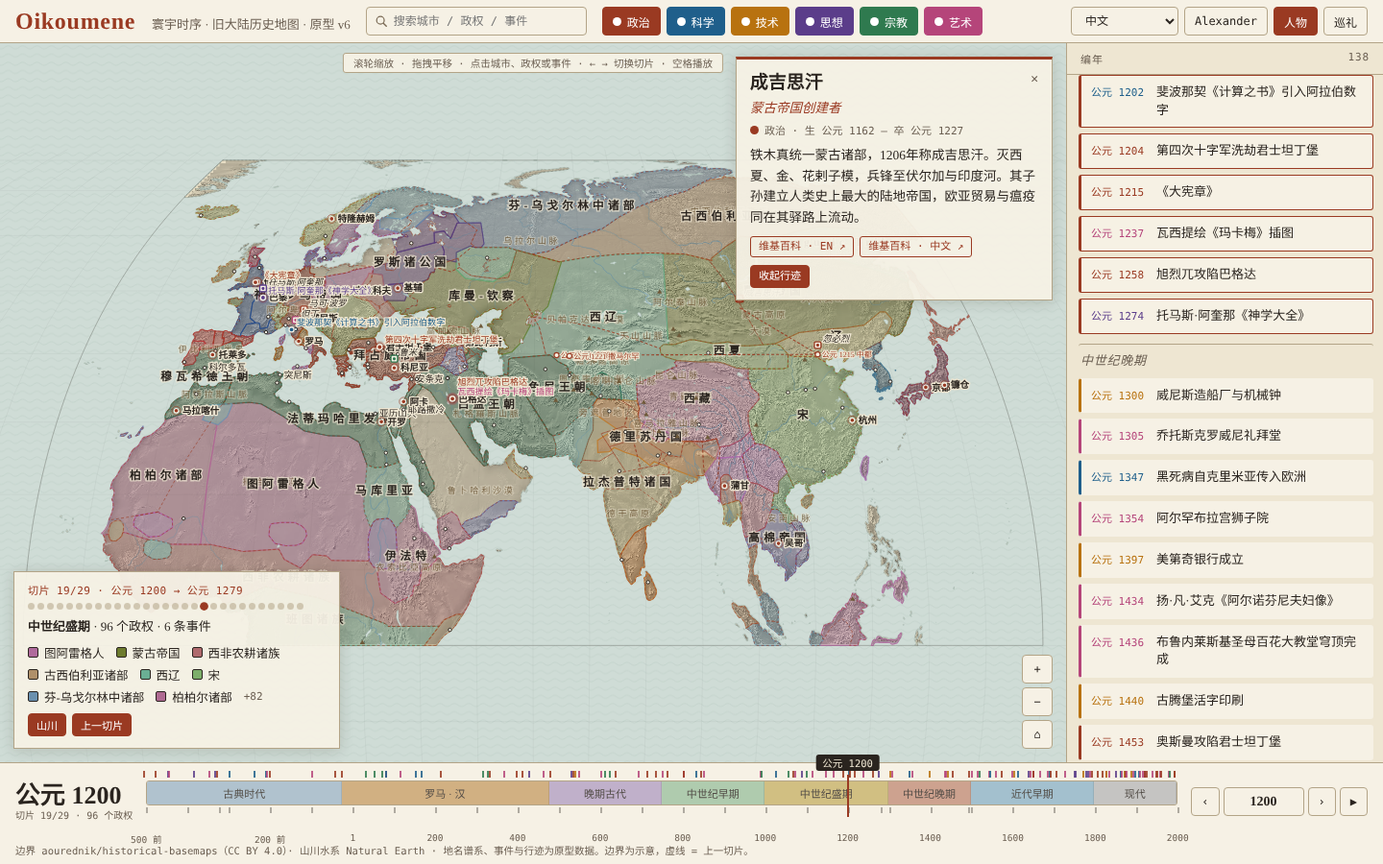
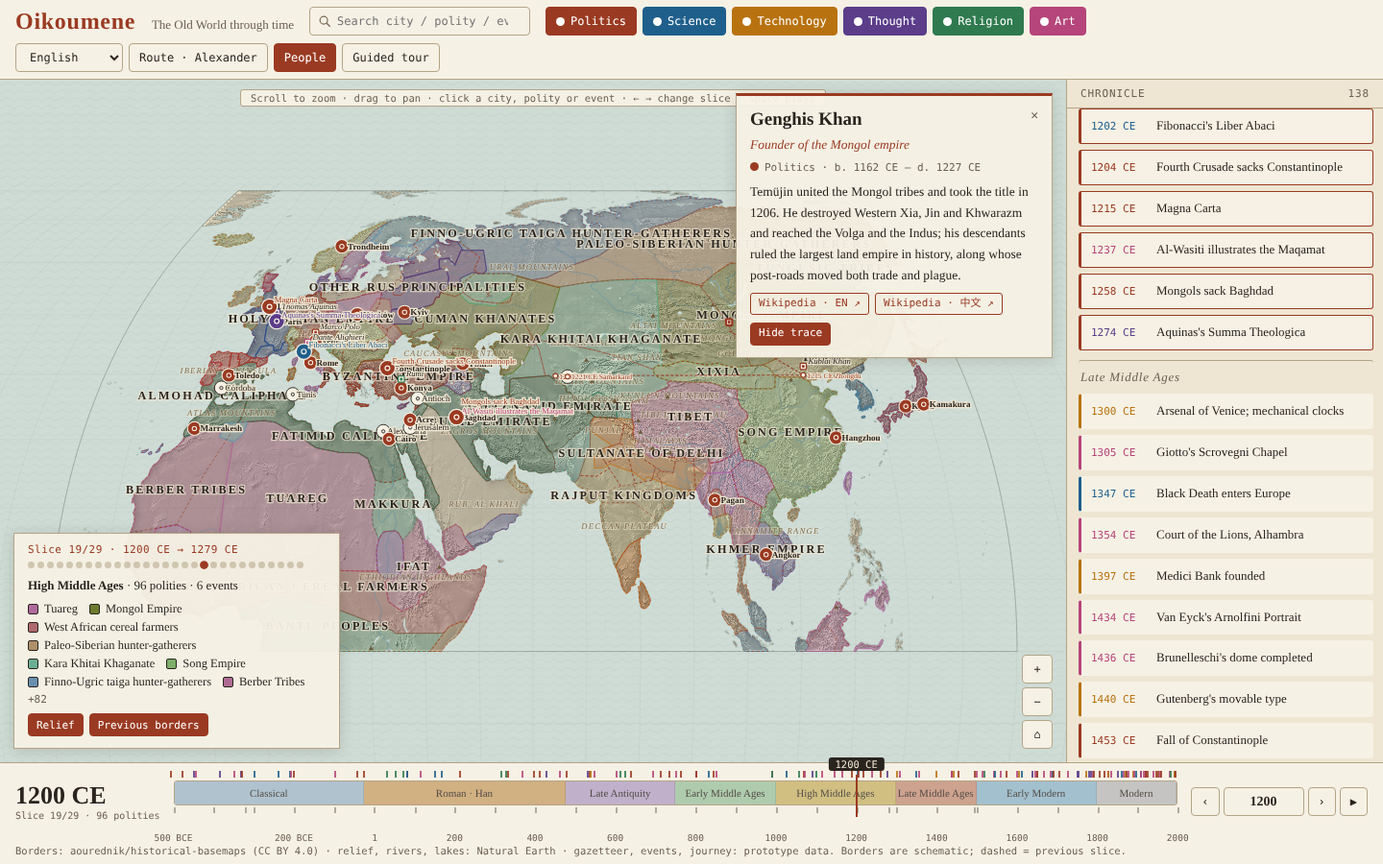
English-first README with FR/DE/IT translations; Italian UI; English screenshot; minor cities hidden at base zoom
Claude-Session: https://claude.ai/code/session_01UzgbBj8TgFjAtKoGFmXa1M

diff --git a/public/index.html b/public/index.html
@@ -79,8 +79,8 @@ svg[data-z="2"] .peak text,svg[data-z="3"] .peak text{display:block}
 .city text{font-family:var(--zh);font-size:calc(9px*var(--inv,1));fill:var(--ink);paint-order:stroke;stroke:var(--paper);stroke-width:2.6;stroke-linejoin:round;cursor:pointer}
 .hit{fill:transparent;stroke:none}
 .city.cap text{font-weight:700}
-.city.minor text{display:none}
-svg[data-z="2"] .city.minor text,svg[data-z="3"] .city.minor text{display:block}
+.city.minor{display:none}
+svg[data-z="2"] .city.minor,svg[data-z="3"] .city.minor{display:block}
 .lbl{font-family:var(--display);font-weight:600;font-size:calc(12px*var(--inv,1));fill:var(--ink);text-anchor:middle;letter-spacing:.18em;text-transform:uppercase;paint-order:stroke;stroke:var(--paper);stroke-width:2.4;stroke-opacity:.7;pointer-events:none}
 .lbl.zh{font-family:var(--zh);text-transform:none;letter-spacing:.35em;font-size:calc(11px*var(--inv,1))}
 .ev{cursor:pointer}
@@ -187,7 +187,7 @@ footer{grid-area:tl;border-top:1px solid var(--rule);background:var(--panel-soli
   <div class="ctl" id="kinds"></div>
   <span class="sp"></span>
   <div class="ctl">
-    <select id="lang" aria-label="language"><option value="en">English</option><option value="zh">中文</option><option value="fr">Français</option><option value="de">Deutsch</option><option value="es">Español</option></select>
+    <select id="lang" aria-label="language"><option value="en">English</option><option value="zh">中文</option><option value="fr">Français</option><option value="de">Deutsch</option><option value="es">Español</option><option value="it">Italiano</option></select>
     <button id="b-jr">Alexander</button><button id="b-people" aria-pressed="true"></button><button id="b-tour"></button><button id="b-side">☰</button>
   </div>
 </header>
@@ -243,23 +243,24 @@ const JOURNEY={zh:'亚历山大东征',en:"Alexander's campaigns",w:'Wars of Ale
 LINEAGE.push([/^(Han|Qin|Tang|Song|Ming|Qing|Jin|Sui|Northern Wei|Toba Wei|Southern Song|China)$/,'#b03a2e'],[/Japan|Shogun|Kamakura|Edo/,'#7a3b5e'],[/Korea|Goryeo|Joseon|Silla|Koguryo|Paekche/,'#3a6e8c'],[/Maurya|Gupta|Delhi|Mughal|Chola|Vijayanagara|India/,'#c0762c']);
 LINEAGE.push([/^(Han|Qin|Tang|Song|Ming|Qing|Jin|Sui|Northern Wei|Toba Wei|Southern Song|China)$/,'#b03a2e'],[/Japan|Shogun|Kamakura|Edo/,'#7a3b5e'],[/Korea|Goryeo|Joseon|Silla|Koguryo|Paekche/,'#3a6e8c'],[/Maurya|Gupta|Delhi|Mughal|Chola|Vijayanagara|India/,'#c0762c']);
 
-const KINDS={pol:{zh:'政治',en:'Politics',fr:'Politique',de:'Politik',es:'Política'},sci:{zh:'科学',en:'Science',fr:'Science',de:'Wissenschaft',es:'Ciencia'},tec:{zh:'技术',en:'Technology',fr:'Technique',de:'Technik',es:'Tecnología'},tho:{zh:'思想',en:'Thought',fr:'Pensée',de:'Denken',es:'Pensamiento'},rel:{zh:'宗教',en:'Religion',fr:'Religion',de:'Religion',es:'Religión'},art:{zh:'艺术',en:'Art',fr:'Art',de:'Kunst',es:'Arte'}};
+const KINDS={pol:{zh:'政治',en:'Politics',fr:'Politique',de:'Politik',es:'Política',it:'Politica'},sci:{zh:'科学',en:'Science',fr:'Science',de:'Wissenschaft',es:'Ciencia',it:'Scienza'},tec:{zh:'技术',en:'Technology',fr:'Technique',de:'Technik',es:'Tecnología',it:'Tecnologia'},tho:{zh:'思想',en:'Thought',fr:'Pensée',de:'Denken',es:'Pensamiento',it:'Pensiero'},rel:{zh:'宗教',en:'Religion',fr:'Religion',de:'Religion',es:'Religión',it:'Religione'},art:{zh:'艺术',en:'Art',fr:'Art',de:'Kunst',es:'Arte',it:'Arte'}};
 const ERAS=[
-  {from:-500,to:-27,c:'#9fb7c9',n:{en:'Classical',zh:'古典时代',fr:'Antiquité classique',de:'Klassische Antike',es:'Época clásica'}},
-  {from:-27,to:476,c:'#c9a06a',n:{en:'Roman · Han',zh:'罗马 · 汉',fr:'Rome · Han',de:'Rom · Han',es:'Roma · Han'}},
-  {from:476,to:750,c:'#b3a0c4',n:{en:'Late Antiquity',zh:'晚期古代',fr:'Antiquité tardive',de:'Spätantike',es:'Antigüedad tardía'}},
-  {from:750,to:1000,c:'#9ec2a0',n:{en:'Early Middle Ages',zh:'中世纪早期',fr:'Haut Moyen Âge',de:'Frühmittelalter',es:'Alta Edad Media'}},
-  {from:1000,to:1300,c:'#c9b36a',n:{en:'High Middle Ages',zh:'中世纪盛期',fr:'Moyen Âge central',de:'Hochmittelalter',es:'Plena Edad Media'}},
-  {from:1300,to:1500,c:'#c48f7a',n:{en:'Late Middle Ages',zh:'中世纪晚期',fr:'Bas Moyen Âge',de:'Spätmittelalter',es:'Baja Edad Media'}},
-  {from:1500,to:1800,c:'#8fb5c9',n:{en:'Early Modern',zh:'近代早期',fr:'Époque moderne',de:'Frühe Neuzeit',es:'Edad Moderna'}},
-  {from:1800,to:2000,c:'#b9b9b9',n:{en:'Modern',zh:'现代',fr:'Époque contemporaine',de:'Moderne',es:'Edad Contemporánea'}}];
+  {from:-500,to:-27,c:'#9fb7c9',n:{en:'Classical',zh:'古典时代',fr:'Antiquité classique',de:'Klassische Antike',es:'Época clásica',it:'Età classica'}},
+  {from:-27,to:476,c:'#c9a06a',n:{en:'Roman · Han',zh:'罗马 · 汉',fr:'Rome · Han',de:'Rom · Han',es:'Roma · Han',it:'Roma · Han'}},
+  {from:476,to:750,c:'#b3a0c4',n:{en:'Late Antiquity',zh:'晚期古代',fr:'Antiquité tardive',de:'Spätantike',es:'Antigüedad tardía',it:'Tarda antichità'}},
+  {from:750,to:1000,c:'#9ec2a0',n:{en:'Early Middle Ages',zh:'中世纪早期',fr:'Haut Moyen Âge',de:'Frühmittelalter',es:'Alta Edad Media',it:'Alto Medioevo'}},
+  {from:1000,to:1300,c:'#c9b36a',n:{en:'High Middle Ages',zh:'中世纪盛期',fr:'Moyen Âge central',de:'Hochmittelalter',es:'Plena Edad Media',it:'Pieno Medioevo'}},
+  {from:1300,to:1500,c:'#c48f7a',n:{en:'Late Middle Ages',zh:'中世纪晚期',fr:'Bas Moyen Âge',de:'Spätmittelalter',es:'Baja Edad Media',it:'Basso Medioevo'}},
+  {from:1500,to:1800,c:'#8fb5c9',n:{en:'Early Modern',zh:'近代早期',fr:'Époque moderne',de:'Frühe Neuzeit',es:'Edad Moderna',it:'Età moderna'}},
+  {from:1800,to:2000,c:'#b9b9b9',n:{en:'Modern',zh:'现代',fr:'Époque contemporaine',de:'Moderne',es:'Edad Contemporánea',it:'Età contemporanea'}}];
 const T={
- en:{sub:'The Old World through time · prototype v6',legend:'Polities',slice:'Slice',pol:'polities',unnamed:'unnamed peoples / no polity',cap:'Capital',names:'Names through time',note:'Borders: aourednik/historical-basemaps (CC BY 4.0) · relief, rivers, lakes: Natural Earth · gazetteer, events, journey: prototype data. Borders are schematic; dashed = previous slice.',chron:'Chronicle',tour:'Guided tour',jr:'Route · Alexander',tourT:'Fly through every period and land on its defining event',jrT:"Draw Alexander's campaign route; click a stop to jump to that year",ghostT:'Show the previous slice\'s borders as dashed lines',wiki:'Wikipedia',relief:'Relief',ghost:'Previous borders',search:'Search city / polity / event',hint:'Scroll to zoom · drag to pan · click a city, polity or event · ← → change slice · Space plays',bce:'BCE',ce:'CE',year:'Year',events:'events',local:'local',people:'People',born:'b.',died:'d.',trace:'Trace life',untrace:'Hide trace',read:'Read'},
- zh:{sub:'寰宇时序 · 旧大陆历史地图 · 原型 v6',legend:'政权',slice:'切片',pol:'个政权',unnamed:'未命名部族 / 无主地',cap:'都城',names:'历代名称',note:'边界 aourednik/historical-basemaps（CC BY 4.0）· 山川水系 Natural Earth · 地名谱系、事件与行迹为原型数据。边界为示意，虚线 = 上一切片。',chron:'编年',tour:'巡礼',jr:'行迹 · 亚历山大',tourT:'自动飞过每个时期，停在它的代表性事件上',jrT:'画出亚历山大东征路线，点站点跳到那一年',ghostT:'把上一切片的边界显示为虚线',wiki:'维基百科',relief:'山川',ghost:'上期边界',search:'搜索城市 / 政权 / 事件',hint:'滚轮缩放 · 拖拽平移 · 点击城市、政权或事件 · ← → 切换切片 · 空格播放',bce:'前',ce:'公元',year:'年',events:'条事件',local:'当地',people:'人物',born:'生',died:'卒',trace:'生平行迹',untrace:'收起行迹',read:'阅读'},
- fr:{sub:'Le Vieux Monde à travers le temps · prototype v6',legend:'Entités politiques',slice:'Coupe',pol:'entités',unnamed:'peuples sans État',cap:'Capitale',names:'Noms au fil du temps',note:'Frontières : aourednik/historical-basemaps (CC BY 4.0) · relief, fleuves, lacs : Natural Earth · toponymes, événements, itinéraire : données prototype. Frontières schématiques ; pointillé = coupe précédente.',chron:'Chronique',tour:'Visite guidée',jr:'Itinéraire · Alexandre',tourT:'Survole chaque période et se pose sur son événement marquant',jrT:"Trace la campagne d'Alexandre ; cliquer une étape pour aller à cette année",ghostT:'Affiche les frontières de la coupe précédente en pointillé',wiki:'Wikipédia',relief:'Relief',ghost:'Frontières précédentes',search:'Ville / État / événement',hint:'Molette : zoom · glisser : déplacer · cliquer une ville, un État ou un événement · ← → coupe suivante · Espace : lecture',bce:'av. J.-C.',ce:'apr. J.-C.',year:'Année',events:'événements',local:'local',people:'Personnages',born:'né',died:'mort',trace:'Parcours',untrace:'Masquer',read:'Lire'},
- de:{sub:'Die Alte Welt im Wandel der Zeit · Prototyp v6',legend:'Herrschaften',slice:'Schnitt',pol:'Herrschaften',unnamed:'namenlose Völker / kein Staat',cap:'Hauptstadt',names:'Namen im Lauf der Zeit',note:'Grenzen: aourednik/historical-basemaps (CC BY 4.0) · Relief, Flüsse, Seen: Natural Earth · Ortsnamen, Ereignisse, Reise: Prototypdaten. Grenzen schematisch; gestrichelt = vorheriger Schnitt.',chron:'Chronik',tour:'Rundgang',jr:'Route · Alexander',tourT:'Fliegt durch jede Epoche und landet auf ihrem Schlüsselereignis',jrT:'Zeichnet Alexanders Feldzug; Station anklicken springt zum Jahr',ghostT:'Grenzen des vorherigen Schnitts gestrichelt anzeigen',wiki:'Wikipedia',relief:'Relief',ghost:'Vorherige Grenzen',search:'Stadt / Reich / Ereignis',hint:'Scrollen: Zoom · Ziehen: Verschieben · Stadt, Reich oder Ereignis anklicken · ← → Schnitt wechseln · Leertaste: Abspielen',bce:'v. Chr.',ce:'n. Chr.',year:'Jahr',events:'Ereignisse',local:'lokal',people:'Personen',born:'geb.',died:'gest.',trace:'Lebensweg',untrace:'Ausblenden',read:'Lesen'},
- es:{sub:'El Viejo Mundo a través del tiempo · prototipo v6',legend:'Entidades políticas',slice:'Corte',pol:'entidades',unnamed:'pueblos sin Estado',cap:'Capital',names:'Nombres a lo largo del tiempo',note:'Fronteras: aourednik/historical-basemaps (CC BY 4.0) · relieve, ríos, lagos: Natural Earth · topónimos, eventos, viaje: datos prototipo. Fronteras esquemáticas; discontinua = corte anterior.',chron:'Crónica',tour:'Recorrido guiado',jr:'Ruta · Alejandro',tourT:'Vuela por cada época y aterriza en su evento clave',jrT:'Dibuja la campaña de Alejandro; clic en una parada salta a ese año',ghostT:'Muestra las fronteras del corte anterior en línea discontinua',wiki:'Wikipedia',relief:'Relieve',ghost:'Fronteras anteriores',search:'Ciudad / Estado / evento',hint:'Rueda: zoom · arrastrar: mover · clic en ciudad, Estado o evento · ← → cambiar corte · Espacio: reproducir',bce:'a. C.',ce:'d. C.',year:'Año',events:'eventos',local:'local',people:'Personajes',born:'n.',died:'m.',trace:'Trayectoria',untrace:'Ocultar',read:'Leer'}};
-const LANGS=['en','zh','fr','de','es'];
+ en:{sub:'The Old World through time',legend:'Polities',slice:'Slice',pol:'polities',unnamed:'unnamed peoples / no polity',cap:'Capital',names:'Names through time',note:'Borders: aourednik/historical-basemaps (CC BY 4.0) · relief, rivers, lakes: Natural Earth · gazetteer, events, journey: prototype data. Borders are schematic; dashed = previous slice.',chron:'Chronicle',tour:'Guided tour',jr:'Route · Alexander',tourT:'Fly through every period and land on its defining event',jrT:"Draw Alexander's campaign route; click a stop to jump to that year",ghostT:'Show the previous slice\'s borders as dashed lines',wiki:'Wikipedia',relief:'Relief',ghost:'Previous borders',search:'Search city / polity / event',hint:'Scroll to zoom · drag to pan · click a city, polity or event · ← → change slice · Space plays',bce:'BCE',ce:'CE',year:'Year',events:'events',local:'local',people:'People',born:'b.',died:'d.',trace:'Trace life',untrace:'Hide trace',read:'Read'},
+ zh:{sub:'寰宇时序 · 旧大陆历史地图',legend:'政权',slice:'切片',pol:'个政权',unnamed:'未命名部族 / 无主地',cap:'都城',names:'历代名称',note:'边界 aourednik/historical-basemaps（CC BY 4.0）· 山川水系 Natural Earth · 地名谱系、事件与行迹为原型数据。边界为示意，虚线 = 上一切片。',chron:'编年',tour:'巡礼',jr:'行迹 · 亚历山大',tourT:'自动飞过每个时期，停在它的代表性事件上',jrT:'画出亚历山大东征路线，点站点跳到那一年',ghostT:'把上一切片的边界显示为虚线',wiki:'维基百科',relief:'山川',ghost:'上期边界',search:'搜索城市 / 政权 / 事件',hint:'滚轮缩放 · 拖拽平移 · 点击城市、政权或事件 · ← → 切换切片 · 空格播放',bce:'前',ce:'公元',year:'年',events:'条事件',local:'当地',people:'人物',born:'生',died:'卒',trace:'生平行迹',untrace:'收起行迹',read:'阅读'},
+ fr:{sub:'Le Vieux Monde à travers le temps',legend:'Entités politiques',slice:'Coupe',pol:'entités',unnamed:'peuples sans État',cap:'Capitale',names:'Noms au fil du temps',note:'Frontières : aourednik/historical-basemaps (CC BY 4.0) · relief, fleuves, lacs : Natural Earth · toponymes, événements, itinéraire : données prototype. Frontières schématiques ; pointillé = coupe précédente.',chron:'Chronique',tour:'Visite guidée',jr:'Itinéraire · Alexandre',tourT:'Survole chaque période et se pose sur son événement marquant',jrT:"Trace la campagne d'Alexandre ; cliquer une étape pour aller à cette année",ghostT:'Affiche les frontières de la coupe précédente en pointillé',wiki:'Wikipédia',relief:'Relief',ghost:'Frontières précédentes',search:'Ville / État / événement',hint:'Molette : zoom · glisser : déplacer · cliquer une ville, un État ou un événement · ← → coupe suivante · Espace : lecture',bce:'av. J.-C.',ce:'apr. J.-C.',year:'Année',events:'événements',local:'local',people:'Personnages',born:'né',died:'mort',trace:'Parcours',untrace:'Masquer',read:'Lire'},
+ de:{sub:'Die Alte Welt im Wandel der Zeit',legend:'Herrschaften',slice:'Schnitt',pol:'Herrschaften',unnamed:'namenlose Völker / kein Staat',cap:'Hauptstadt',names:'Namen im Lauf der Zeit',note:'Grenzen: aourednik/historical-basemaps (CC BY 4.0) · Relief, Flüsse, Seen: Natural Earth · Ortsnamen, Ereignisse, Reise: Prototypdaten. Grenzen schematisch; gestrichelt = vorheriger Schnitt.',chron:'Chronik',tour:'Rundgang',jr:'Route · Alexander',tourT:'Fliegt durch jede Epoche und landet auf ihrem Schlüsselereignis',jrT:'Zeichnet Alexanders Feldzug; Station anklicken springt zum Jahr',ghostT:'Grenzen des vorherigen Schnitts gestrichelt anzeigen',wiki:'Wikipedia',relief:'Relief',ghost:'Vorherige Grenzen',search:'Stadt / Reich / Ereignis',hint:'Scrollen: Zoom · Ziehen: Verschieben · Stadt, Reich oder Ereignis anklicken · ← → Schnitt wechseln · Leertaste: Abspielen',bce:'v. Chr.',ce:'n. Chr.',year:'Jahr',events:'Ereignisse',local:'lokal',people:'Personen',born:'geb.',died:'gest.',trace:'Lebensweg',untrace:'Ausblenden',read:'Lesen'},
+ es:{sub:'El Viejo Mundo a través del tiempo',legend:'Entidades políticas',slice:'Corte',pol:'entidades',unnamed:'pueblos sin Estado',cap:'Capital',names:'Nombres a lo largo del tiempo',note:'Fronteras: aourednik/historical-basemaps (CC BY 4.0) · relieve, ríos, lagos: Natural Earth · topónimos, eventos, viaje: datos prototipo. Fronteras esquemáticas; discontinua = corte anterior.',chron:'Crónica',tour:'Recorrido guiado',jr:'Ruta · Alejandro',tourT:'Vuela por cada época y aterriza en su evento clave',jrT:'Dibuja la campaña de Alejandro; clic en una parada salta a ese año',ghostT:'Muestra las fronteras del corte anterior en línea discontinua',wiki:'Wikipedia',relief:'Relieve',ghost:'Fronteras anteriores',search:'Ciudad / Estado / evento',hint:'Rueda: zoom · arrastrar: mover · clic en ciudad, Estado o evento · ← → cambiar corte · Espacio: reproducir',bce:'a. C.',ce:'d. C.',year:'Año',events:'eventos',local:'local',people:'Personajes',born:'n.',died:'m.',trace:'Trayectoria',untrace:'Ocultar',read:'Leer'},
+ it:{sub:'Il Vecchio Mondo attraverso il tempo',legend:'Entità politiche',slice:'Sezione',pol:'entità',unnamed:'popoli senza Stato',cap:'Capitale',names:'Nomi nel tempo',note:'Confini: aourednik/historical-basemaps (CC BY 4.0) · rilievo, fiumi, laghi: Natural Earth · toponimi, eventi, viaggio: dati prototipo. Confini schematici; tratteggio = sezione precedente.',chron:'Cronaca',tour:'Visita guidata',jr:'Itinerario · Alessandro',tourT:'Sorvola ogni epoca e si ferma sul suo evento chiave',jrT:"Traccia la campagna di Alessandro; clicca una tappa per saltare a quell'anno",ghostT:'Mostra i confini della sezione precedente tratteggiati',wiki:'Wikipedia',relief:'Rilievo',ghost:'Confini precedenti',search:'Città / Stato / evento',hint:'Rotella: zoom · trascina: sposta · clicca una città, uno Stato o un evento · ← → cambia sezione · Spazio: riproduci',bce:'a.C.',ce:'d.C.',year:'Anno',events:'eventi',local:'locale',people:'Personaggi',born:'n.',died:'m.',trace:'Percorso di vita',untrace:'Nascondi',read:'Leggi'}};
+const LANGS=['en','zh','fr','de','es','it'];
 /* projection: Equal Earth centred on 62°E, Atlantic → Japan, Equator → Arctic */
 const W=1000,H=700,B={west:-30,east:150,south:0,north:80};
 const frameGeo={type:'Polygon',coordinates:[[...Array.from({length:91},(_,i)=>[B.west+i*2,B.south]),...Array.from({length:41},(_,i)=>[B.east,B.south+i*2]),...Array.from({length:91},(_,i)=>[B.east-i*2,B.north]),...Array.from({length:41},(_,i)=>[B.west,B.north-i*2])].reverse()]};

diff --git a/docs/README.fr.md b/docs/README.fr.md
@@ -1,0 +1,53 @@
+# Oikoumene
+
+*Le monde habité, de 500 av. J.-C. à 2000, sur une seule carte que l'on fait défiler dans le temps.*
+
+[**Voir la carte**](https://oikoumene.pages.dev) · [English](../README.md) · [Deutsch](README.de.md) · [Italiano](README.it.md) · [中文](README.zh.md)
+
+---
+
+**Oikoumene** (οἰκουμένη, *oï-kou-MÉ-nè*) : le mot grec pour « le monde habité », tout ce que les Anciens connaissaient, des colonnes d'Hercule au pays des Sères. Cet atlas dessine ce monde — de l'Atlantique au Japon, de l'équateur à l'Arctique — comme une carte continue dotée d'une frise chronologique : on y regarde les empires naître et disparaître, les villes changer de nom, les hommes la traverser.
+
+Un site statique : un fichier HTML, un dossier de JSON, [d3-geo](https://github.com/d3/d3-geo) pour la projection. Ni serveur, ni compte, ni traçage.
+
+## Ce que montre la carte
+
+| Couche | Contenu |
+|---|---|
+| **Frontières** | 29 coupes entre 500 av. J.-C. et 2000. La coupe précédente reste en pointillé, pour voir d'un coup d'œil ce qui a été gagné ou perdu. |
+| **Relief** | Ombrage du terrain, fleuves, lacs, massifs, déserts et sommets sous l'ensemble : un empire repose sur les montagnes et les déserts qui l'ont façonné. |
+| **Villes** | 128 villes avec tous les noms qu'elles ont portés, dans l'écriture de leurs maîtres successifs (Byzantion → Constantinople → Qusṭanṭīniyya → İstanbul), leurs périodes de capitale et, pour les principales, une devise et une courte histoire. |
+| **Personnages** | 62 figures, placées là où elles vivaient à la date affichée. Chacune a une biographie et un bouton *Parcours* qui trace ses déplacements : Alexandre jusqu'à l'Indus, Xuanzang jusqu'à Nālandā, Ibn Battûta jusqu'à Hangzhou. |
+| **Événements** | 138 événements en six catégories colorées : politique, science, technique, pensée, religion, art. Sur la carte, sur la frise et dans une chronique classée par époque. |
+| **Visite guidée** | Un bouton survole chaque période et se pose sur son événement marquant. |
+| **Langues** | Anglais, français, allemand, italien, espagnol, chinois. Chaque fiche renvoie à Wikipédia. |
+
+## À essayer
+
+| | |
+|---|---|
+| [`?year=-323&lang=fr`](https://oikoumene.pages.dev/?year=-323&lang=fr) | Le monde l'année de la mort d'Alexandre |
+| [`?year=1200&lang=fr`](https://oikoumene.pages.dev/?year=1200&lang=fr) | Juste avant les Mongols |
+| [`?year=1453&lang=fr`](https://oikoumene.pages.dev/?year=1453&lang=fr) | La chute de Constantinople |
+| [`?journey=alexander&lang=fr`](https://oikoumene.pages.dev/?journey=alexander&lang=fr) | La campagne d'Alexandre tracée sur la carte |
+| [`?tour=1&lang=fr`](https://oikoumene.pages.dev/?tour=1&lang=fr) | Laissez-vous porter |
+
+## Thèmes
+
+Un thème est une histoire dans laquelle on entre : la carte se resserre sur ses années et ses lieux, et on la parcourt étape par étape. Une trentaine sont proposés dans [THEMES.md](THEMES.md) — guerres et leurs routes, le Grand Tour, la route de la Soie, la Peste noire, le voyage du savoir grec vers l'arabe puis le latin. **Votez par 👍 sur les issues étiquetées `theme`.**
+
+## Projet frère
+
+Oikoumene est conçu sur le modèle de [江山时序 jiangshan-map](https://github.com/DeanChensj/jiangshan-map) de Dean Chen, qui fait de même pour la Chine avec des frontières dessinées à la main. Les deux partagent une même interaction et la convention de lien `?year=` ; l'objectif est que les liens de lieux passent de l'un à l'autre.
+
+## Limites connues
+
+Les frontières viennent de [historical-basemaps](https://github.com/aourednik/historical-basemaps), un jeu de données à l'échelle continentale aux erreurs connues ; elles sont schématiques et seront remplacées période par période. Les biographies et histoires de villes sont des repères, non des travaux d'érudition. Corrections bienvenues par issue ou pull request.
+
+## Réalisé avec Claude
+
+Conçu et construit en dialogue avec [Claude](https://claude.ai) (Anthropic) sur deux jours de novembre 2026 : pipeline de données, page, biographies, histoires de villes et ce texte. La direction, les choix éditoriaux et le nom sont de Yuexiang Wang ; la plupart des frappes sont de Claude.
+
+## Crédits et licence
+
+Frontières : aourednik/historical-basemaps, CC BY 4.0 · Relief, fleuves, lacs : Natural Earth et matplotlib basemap-data, domaine public · Géométrie : d3-geo, ISC · Polices : Cormorant Garamond, Noto Serif SC, IBM Plex Mono · Interaction d'après jiangshan-map (GPL-3.0 ; aucun code réutilisé). Code et données de ce dépôt : [MIT](../LICENSE).

diff --git a/docs/README.de.md b/docs/README.de.md
@@ -1,0 +1,53 @@
+# Oikoumene
+
+*Die bewohnte Welt, 500 v. Chr. bis 2000, auf einer Karte, durch die man die Zeit zieht.*
+
+[**Karte öffnen**](https://oikoumene.pages.dev) · [English](../README.md) · [Français](README.fr.md) · [Italiano](README.it.md) · [中文](README.zh.md)
+
+---
+
+**Oikoumene** (οἰκουμένη, *oi-ku-MÄ-nä*) war das griechische Wort für „die bewohnte Welt": alles, was die Alten kannten, von den Säulen des Herakles bis zum Land der Serer. Dieser Atlas zeichnet diese Welt — vom Atlantik bis Japan, vom Äquator bis zur Arktis — als eine durchgehende Karte mit Zeitleiste: Reiche entstehen und vergehen, Städte wechseln ihre Namen, Menschen ziehen hindurch.
+
+Eine statische Seite: eine HTML-Datei, ein Ordner JSON, [d3-geo](https://github.com/d3/d3-geo) für die Projektion. Kein Server, keine Konten, kein Tracking.
+
+## Was die Karte zeigt
+
+| Ebene | Inhalt |
+|---|---|
+| **Grenzen** | 29 Schnitte zwischen 500 v. Chr. und 2000. Der vorige Schnitt bleibt gestrichelt sichtbar, so dass Gewinne und Verluste auf einen Blick erkennbar sind. |
+| **Relief** | Schummerung, Flüsse, Seen, Gebirge, Wüsten und Gipfel unter allem — ein Reich liegt auf den Bergen und Wüsten, die es geformt haben. |
+| **Städte** | 128 Städte mit allen Namen, die sie je trugen, in der Schrift ihrer jeweiligen Herrscher (Byzantion → Konstantinopel → Qusṭanṭīniyya → İstanbul), ihren Hauptstadtzeiten und für die wichtigsten eine Kennzeile und eine kurze Geschichte. |
+| **Personen** | 62 Gestalten, dort gezeigt, wo sie zur gewählten Zeit lebten. Jede mit Biografie und einem *Lebensweg*-Knopf, der ihre Wege zeichnet: Alexander bis zum Indus, Xuanzang bis Nalanda, Ibn Battuta bis Hangzhou. |
+| **Ereignisse** | 138 Ereignisse in sechs farbcodierten Kategorien: Politik, Wissenschaft, Technik, Denken, Religion, Kunst. Auf der Karte, auf der Zeitleiste und in einer nach Epochen gegliederten Chronik. |
+| **Rundgang** | Ein Knopf fliegt durch jede Epoche und landet auf ihrem Schlüsselereignis. |
+| **Sprachen** | Englisch, Französisch, Deutsch, Italienisch, Spanisch, Chinesisch. Jede Karte verlinkt auf Wikipedia. |
+
+## Zum Ausprobieren
+
+| | |
+|---|---|
+| [`?year=-323&lang=de`](https://oikoumene.pages.dev/?year=-323&lang=de) | Die Welt im Todesjahr Alexanders |
+| [`?year=1200&lang=de`](https://oikoumene.pages.dev/?year=1200&lang=de) | Kurz vor den Mongolen |
+| [`?year=1453&lang=de`](https://oikoumene.pages.dev/?year=1453&lang=de) | Der Fall Konstantinopels |
+| [`?journey=alexander&lang=de`](https://oikoumene.pages.dev/?journey=alexander&lang=de) | Alexanders Feldzug auf der Karte |
+| [`?tour=1&lang=de`](https://oikoumene.pages.dev/?tour=1&lang=de) | Zurücklehnen und zusehen |
+
+## Themen
+
+Ein Thema ist eine Geschichte, in die man eintritt: Die Karte verengt sich auf ihre Jahre und Orte, und man geht sie Station für Station ab. Rund dreißig sind in [THEMES.md](THEMES.md) vorgeschlagen — Kriege und ihre Routen, die Grand Tour, die Seidenstraße, der Schwarze Tod, der Weg des griechischen Wissens ins Arabische und zurück ins Lateinische. **Abstimmen per 👍 auf den Issues mit dem Label `theme`.**
+
+## Schwesterprojekt
+
+Vorbild ist [江山时序 jiangshan-map](https://github.com/DeanChensj/jiangshan-map) von Dean Chen, das dasselbe für China mit handgezeichneten Grenzen leistet. Beide teilen das Bedienkonzept und die `?year=`-Linkkonvention; Ziel ist, dass Ortslinks zwischen beiden springen.
+
+## Bekannte Grenzen
+
+Die Grenzen stammen aus [historical-basemaps](https://github.com/aourednik/historical-basemaps), einem Datensatz im Kontinentalmaßstab mit bekannten Fehlern; sie sind schematisch und werden Epoche für Epoche ersetzt. Biografien und Stadtgeschichten sind Orientierung, keine Forschung. Korrekturen als Issue oder Pull Request willkommen.
+
+## Mit Claude gebaut
+
+Entworfen und gebaut im Dialog mit [Claude](https://claude.ai) (Anthropic) an zwei Tagen im November 2026: Datenpipeline, Seite, Biografien, Stadtgeschichten und dieser Text. Richtung, redaktionelle Entscheidungen und Name stammen von Yuexiang Wang; die meisten Tastenanschläge von Claude.
+
+## Quellen und Lizenz
+
+Grenzen: aourednik/historical-basemaps, CC BY 4.0 · Relief, Flüsse, Seen: Natural Earth und matplotlib basemap-data, gemeinfrei · Geometrie: d3-geo, ISC · Schriften: Cormorant Garamond, Noto Serif SC, IBM Plex Mono · Bedienkonzept nach jiangshan-map (GPL-3.0; kein Code übernommen). Code und Daten dieses Repositories: [MIT](../LICENSE).

diff --git a/docs/README.it.md b/docs/README.it.md
@@ -1,0 +1,53 @@
+# Oikoumene
+
+*Il mondo abitato, dal 500 a.C. al 2000, su una sola mappa che si scorre nel tempo.*
+
+[**Apri la mappa**](https://oikoumene.pages.dev) · [English](../README.md) · [Français](README.fr.md) · [Deutsch](README.de.md) · [中文](README.zh.md)
+
+---
+
+**Oikoumene** (οἰκουμένη, *oi-ku-MÈ-ne*) era la parola greca per «il mondo abitato»: tutto ciò che gli antichi conoscevano, dalle Colonne d'Ercole alla terra dei Seri. Questo atlante disegna quel mondo — dall'Atlantico al Giappone, dall'equatore all'Artico — come un'unica mappa continua con una linea del tempo: si guardano gli imperi sorgere e cadere, le città cambiare nome, le persone attraversarlo.
+
+Un sito statico: un file HTML, una cartella di JSON, [d3-geo](https://github.com/d3/d3-geo) per la proiezione. Nessun server, nessun account, nessun tracciamento.
+
+## Cosa c'è sulla mappa
+
+| Livello | Contenuto |
+|---|---|
+| **Confini** | 29 sezioni tra il 500 a.C. e il 2000. La sezione precedente resta tratteggiata, così guadagni e perdite si vedono a colpo d'occhio. |
+| **Rilievo** | Ombreggiatura del terreno, fiumi, laghi, catene, deserti e cime sotto tutto il resto: un impero poggia sulle montagne e sui deserti che lo hanno plasmato. |
+| **Città** | 128 città con tutti i nomi che hanno portato, nella scrittura di chi le governava (Byzantion → Costantinopoli → Qusṭanṭīniyya → İstanbul), i periodi da capitale e, per le principali, un motto e una breve storia. |
+| **Personaggi** | 62 figure, mostrate dove vivevano nell'anno scelto. Ognuna ha una biografia e un pulsante *Percorso di vita* che ne traccia gli spostamenti: Alessandro fino all'Indo, Xuanzang fino a Nālandā, Ibn Battuta fino a Hangzhou. |
+| **Eventi** | 138 eventi in sei categorie colorate: politica, scienza, tecnologia, pensiero, religione, arte. Sulla mappa, sulla linea del tempo e in una cronaca ordinata per epoca. |
+| **Visita guidata** | Un pulsante sorvola ogni epoca e si ferma sul suo evento chiave. |
+| **Lingue** | Inglese, francese, tedesco, italiano, spagnolo, cinese. Ogni scheda rimanda a Wikipedia. |
+
+## Da provare
+
+| | |
+|---|---|
+| [`?year=-323&lang=it`](https://oikoumene.pages.dev/?year=-323&lang=it) | Il mondo nell'anno della morte di Alessandro |
+| [`?year=1200&lang=it`](https://oikoumene.pages.dev/?year=1200&lang=it) | Poco prima dei Mongoli |
+| [`?year=1453&lang=it`](https://oikoumene.pages.dev/?year=1453&lang=it) | La caduta di Costantinopoli |
+| [`?journey=alexander&lang=it`](https://oikoumene.pages.dev/?journey=alexander&lang=it) | La campagna di Alessandro tracciata sulla mappa |
+| [`?tour=1&lang=it`](https://oikoumene.pages.dev/?tour=1&lang=it) | Mettersi comodi e guardare |
+
+## Temi
+
+Un tema è una storia in cui si entra: la mappa si restringe ai suoi anni e ai suoi luoghi, e la si percorre tappa per tappa. Una trentina sono proposti in [THEMES.md](THEMES.md) — guerre e loro rotte, il Grand Tour, la Via della Seta, la Peste nera, il viaggio del sapere greco verso l'arabo e poi il latino. **Votate con 👍 sulle issue etichettate `theme`.**
+
+## Progetto gemello
+
+Oikoumene è modellato su [江山时序 jiangshan-map](https://github.com/DeanChensj/jiangshan-map) di Dean Chen, che fa lo stesso per la Cina con confini disegnati a mano. I due condividono il modello di interazione e la convenzione di link `?year=`; l'obiettivo è che i link ai luoghi saltino dall'uno all'altro.
+
+## Limiti noti
+
+I confini vengono da [historical-basemaps](https://github.com/aourednik/historical-basemaps), un dataset a scala continentale con errori noti; sono schematici e verranno sostituiti periodo per periodo. Biografie e storie di città sono orientamenti, non ricerca. Correzioni benvenute via issue o pull request.
+
+## Costruito con Claude
+
+Progettato e costruito in dialogo con [Claude](https://claude.ai) (Anthropic) in due giorni di novembre 2026: pipeline dei dati, pagina, biografie, storie di città e questo testo. Direzione, scelte editoriali e nome sono di Yuexiang Wang; la maggior parte dei tasti li ha premuti Claude.
+
+## Crediti e licenza
+
+Confini: aourednik/historical-basemaps, CC BY 4.0 · Rilievo, fiumi, laghi: Natural Earth e matplotlib basemap-data, pubblico dominio · Geometria: d3-geo, ISC · Caratteri: Cormorant Garamond, Noto Serif SC, IBM Plex Mono · Interazione ispirata a jiangshan-map (GPL-3.0; nessun codice riutilizzato). Codice e dati di questo repository: [MIT](../LICENSE).

diff --git a/README.md b/README.md
@@ -3,12 +3,15 @@
 <h1 align="center">Oikoumene</h1>
 <p align="center"><em>The inhabited world, 500 BCE → 2000 CE, on one map you can scrub through time.</em></p>
 <p align="center">
-<a href="https://oikoumene.pages.dev">Live</a> ·
+<a href="https://oikoumene.pages.dev"><b>Live</b></a> ·
 <a href="#try-these">Try these</a> ·
 <a href="#data">Data</a> ·
-<a href="CONTRIBUTING.md">Contribute</a> ·
-<a href="docs/README.zh.md">中文说明</a>
+<a href="docs/THEMES.md">Themes</a> ·
+<a href="CONTRIBUTING.md">Contribute</a>
 </p>
+<p align="center"><sub>
+<a href="docs/README.fr.md">Français</a> · <a href="docs/README.de.md">Deutsch</a> · <a href="docs/README.it.md">Italiano</a> · <a href="docs/README.zh.md">中文</a>
+</sub></p>
 
 ---
 
@@ -26,7 +29,7 @@ It is a static site. One HTML file, a folder of JSON, [d3-geo](https://github.co
 | **People** | 62 figures shown where they lived during the current slice. Each has a biography and a *Trace life* button that draws their movements: Alexander to the Indus, Xuanzang to Nalanda, Ibn Battuta to Hangzhou. |
 | **Events** | 138 events in six colour-coded categories: politics, science, technology, thought, religion, art. They appear on the map, on the timeline, and in a chronicle column grouped by era. |
 | **Tour** | One button flies through every period and lands on its defining event. |
-| **Languages** | English, 中文, Français, Deutsch, Español. Every card links to Wikipedia. |
+| **Languages** | English, French, German, Italian, Spanish, Chinese. Every card links to Wikipedia. |
 
 ## Try these
 

diff --git a/docs/README.zh.md b/docs/README.zh.md
@@ -1,5 +1,7 @@
 # Oikoumene · 寰宇时序
 
+[**打开地图**](https://oikoumene.pages.dev) · [English](../README.md) · [Français](README.fr.md) · [Deutsch](README.de.md) · [Italiano](README.it.md)
+
 Οἰκουμένη（oikoumene）是古希腊人对"有人居住的世界"的称呼——从直布罗陀到赛里斯（中国），他们所知道的一切。这张交互地图把那个世界画在一张图上：西起大西洋，东到日本，南起赤道，北到北冰洋，公元前 500 年到公元 2000 年，拖动时间轴看帝国兴衰、城市改名、人物迁徙。
 
 纯静态页面：一个 HTML、一个 JSON 文件夹、d3-geo 做投影。没有后端，不收集任何数据。
@@ -12,7 +14,7 @@
 - **人物**：62 位，按生活年代显示在他们活动的地方，有传记和「生平行迹」按钮：亚历山大到印度河、玄奘到那烂陀、伊本·白图泰到杭州。
 - **事件**：138 条，六类着色——政治、科学、技术、思想、宗教、艺术——同时出现在地图、时间轴和右侧编年栏。
 - **巡礼**：一键飞过每个时期，停在它的代表性事件上。
-- **五种界面语言**：英文、中文、法文、德文、西班牙文。每张卡片都有维基百科链接。
+- **六种界面语言**：英文、法文、德文、意大利文、西班牙文、中文。每张卡片都有维基百科链接。
 
 ## 试一试
 

diff --git a/CHANGELOG.md b/CHANGELOG.md
@@ -11,5 +11,5 @@ First public release.
 - 62 people with biographies and life traces
 - 138 events in six categories; chronicle column; era timeline; tour mode
 - Search across cities, people, polities, events
-- UI in English, Chinese, French, German, Spanish
+- UI in English, French, German, Italian, Spanish, Chinese
 - Deep links: `?year=`, `?lang=`, `?journey=`, `?tour=`
